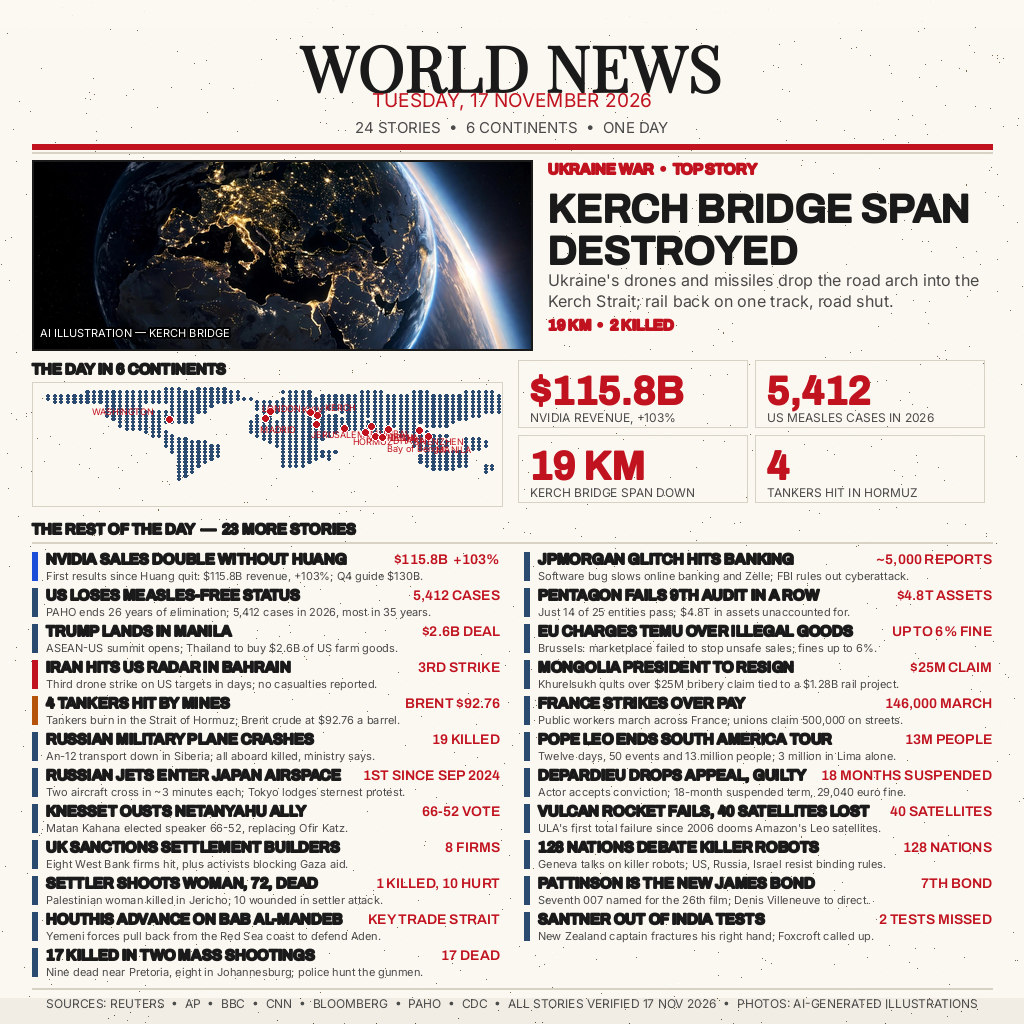
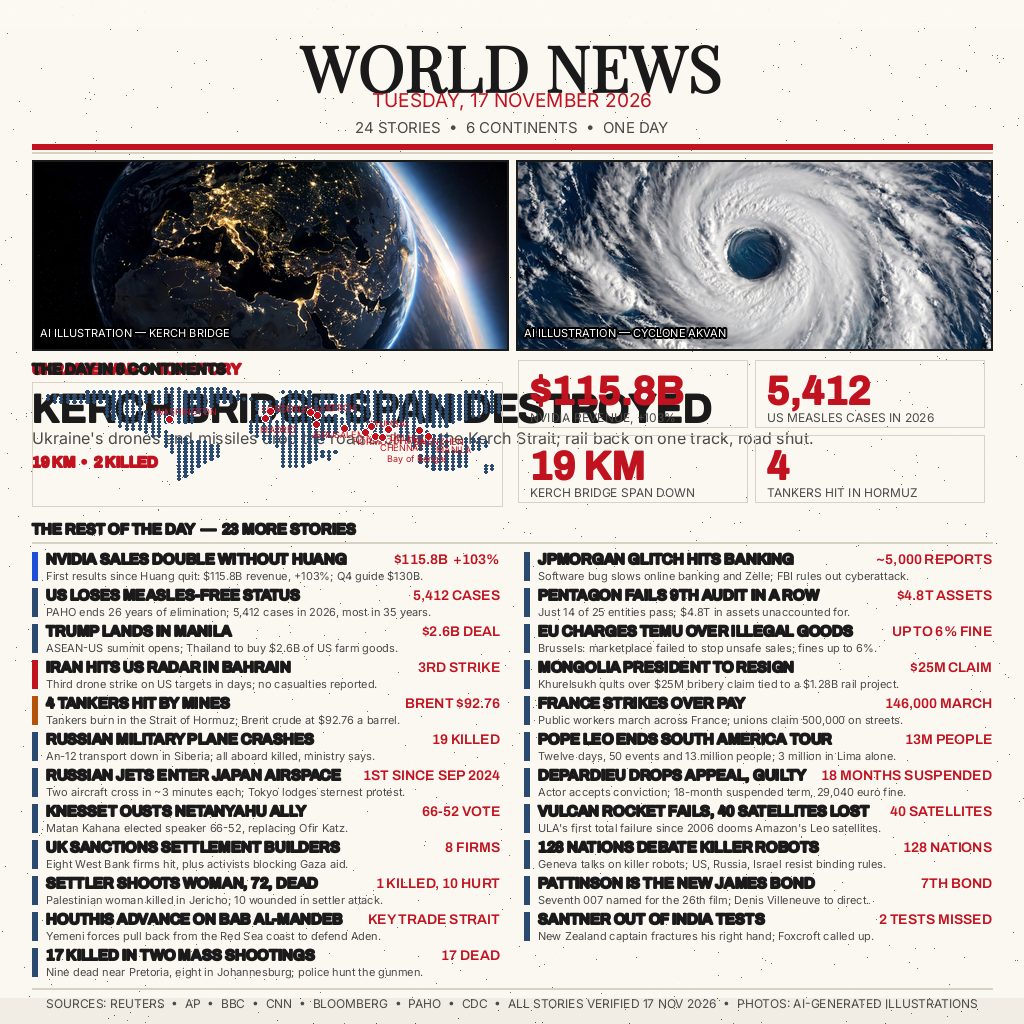
Fix visual defects in v1 layout: hero photo bar shows Earth+TANKER side by side; map label offsets corrected

Changed region(s): [[0.0938, 0.1562, 0.9688, 0.3438], [0.0312, 0.3438, 0.7812, 0.4688]]

diff --git a/render.py b/render.py
@@ -111,16 +111,16 @@ MARKERS = [
     (36.0, 45.0, "KERCH", 8, -14),
     (57.0, 26.0, "HORMUZ", 8, 8),
     (121.0, 14.0, "MANILA", 8, 8),
-    (-77.0, 39.0, "WASHINGTON", -78, -14),
+    (-77.0, 39.0, "WASHINGTON", -15, -14),
     # Additional markers for 14 total (from NEWS-SOURCES.md)
     (35.2, 31.8, "JERUSALEM", -5, 5),
-    (72.9, 19.1, "MUMBAI", 5, -5),
+    (72.9, 19.1, "MUMBAI", 5, -15),
     (-0.1, 51.5, "LONDON", -8, -8),
     (77.2, 28.6, "NEW DELHI", -5, 5),
     (90.4, 23.8, "DHAKA", 5, 5),
-    (80.3, 13.1, "CHENNAI", 5, -5),
+    (80.3, 13.1, "CHENNAI", 5, 5),
     (114.1, 22.5, "SHENZHEN", -5, 5),
-    (85.7, 12.2, "Bay of Bengal", 5, 5),
+    (85.7, 12.2, "Bay of Bengal", 5, 15),
     (30.5, 50.4, "KYIV", -8, -8),
     (-3.7, 40.4, "MADRID", -5, 5),
 ]
@@ -355,33 +355,42 @@ def v1_frontpage():
     img = paper_texture(img)
     d = ImageDraw.Draw(img)
     y = masthead(d, 22)
-    # hero: photo left, text right
+    # hero: two photos side by side with captions
     hy = y
     hh = 190
-    ph = photo_cover(BRIDGE, 500, hh)
+    pw = (CONTENT_W - 8) // 2
+    # Left photo: Earth (BRIDGE/earth-night.jpg)
+    ph = photo_cover(BRIDGE, pw, hh)
     img.paste(ph, (MARGIN, hy))
-    d.rectangle([MARGIN, hy, MARGIN + 500, hy + hh], outline=INK, width=2)
+    d.rectangle([MARGIN, hy, MARGIN + pw, hy + hh], outline=INK, width=2)
     d.text((MARGIN + 8, hy + hh - 24), "AI ILLUSTRATION — KERCH BRIDGE",
            font=inter(11), fill=(255, 255, 255),
            stroke_width=2, stroke_fill=(0, 0, 0))
-    hx = MARGIN + 516
-    hw = W - MARGIN - hx
-    d.text((hx, hy), "UKRAINE WAR  •  TOP STORY", font=archivo(15),
+    # Right photo: TANKER (cyclone.jpg)
+    ph = photo_cover(TANKER, pw, hh)
+    img.paste(ph, (MARGIN + pw + 8, hy))
+    d.rectangle([MARGIN + pw + 8, hy, MARGIN + pw + 8 + pw, hy + hh], outline=INK, width=2)
+    d.text((MARGIN + pw + 8 + 8, hy + hh - 24), "AI ILLUSTRATION — CYCLONE AKVAN",
+           font=inter(11), fill=(255, 255, 255),
+           stroke_width=2, stroke_fill=(0, 0, 0))
+    # Headline block below the hero photos
+    y = hy + hh + 10
+    d.text((MARGIN, y), "UKRAINE WAR  •  TOP STORY", font=archivo(15),
            fill=RED, stroke_width=1, stroke_fill=RED)
-    hf = fit_size(d, "KERCH BRIDGE", archivo, hw, 40, 24)
-    lines = wrap(d, facts.HERO["headline"], hf, hw)
-    yy = hy + 26
+    hf = fit_size(d, "KERCH BRIDGE SPAN DESTROYED", archivo, CONTENT_W - 20, 40, 24)
+    lines = wrap(d, "KERCH BRIDGE SPAN DESTROYED", hf, CONTENT_W - 20)
+    yy = y + 26
     for line in lines:
-        d.text((hx, yy), line, font=hf, fill=INK, stroke_width=1,
+        d.text((MARGIN, yy), line, font=hf, fill=INK, stroke_width=1,
                stroke_fill=INK)
         yy += hf.size + 2
     deck_f = inter(16)
-    for line in wrap(d, facts.HERO["deck"], deck_f, hw):
-        d.text((hx, yy), line, font=deck_f, fill=SECOND)
+    for line in wrap(d, facts.HERO["deck"], deck_f, CONTENT_W - 20):
+        d.text((MARGIN, yy), line, font=deck_f, fill=SECOND)
         yy += 21
     yy += 4
     sf = archivo(15)
-    d.text((hx, yy), facts.HERO["stat"], font=sf, fill=RED, stroke_width=1,
+    d.text((MARGIN, yy), facts.HERO["stat"], font=sf, fill=RED, stroke_width=1,
            stroke_fill=RED)
     y = hy + hh + 10
     # middle band: map left, big stats right
